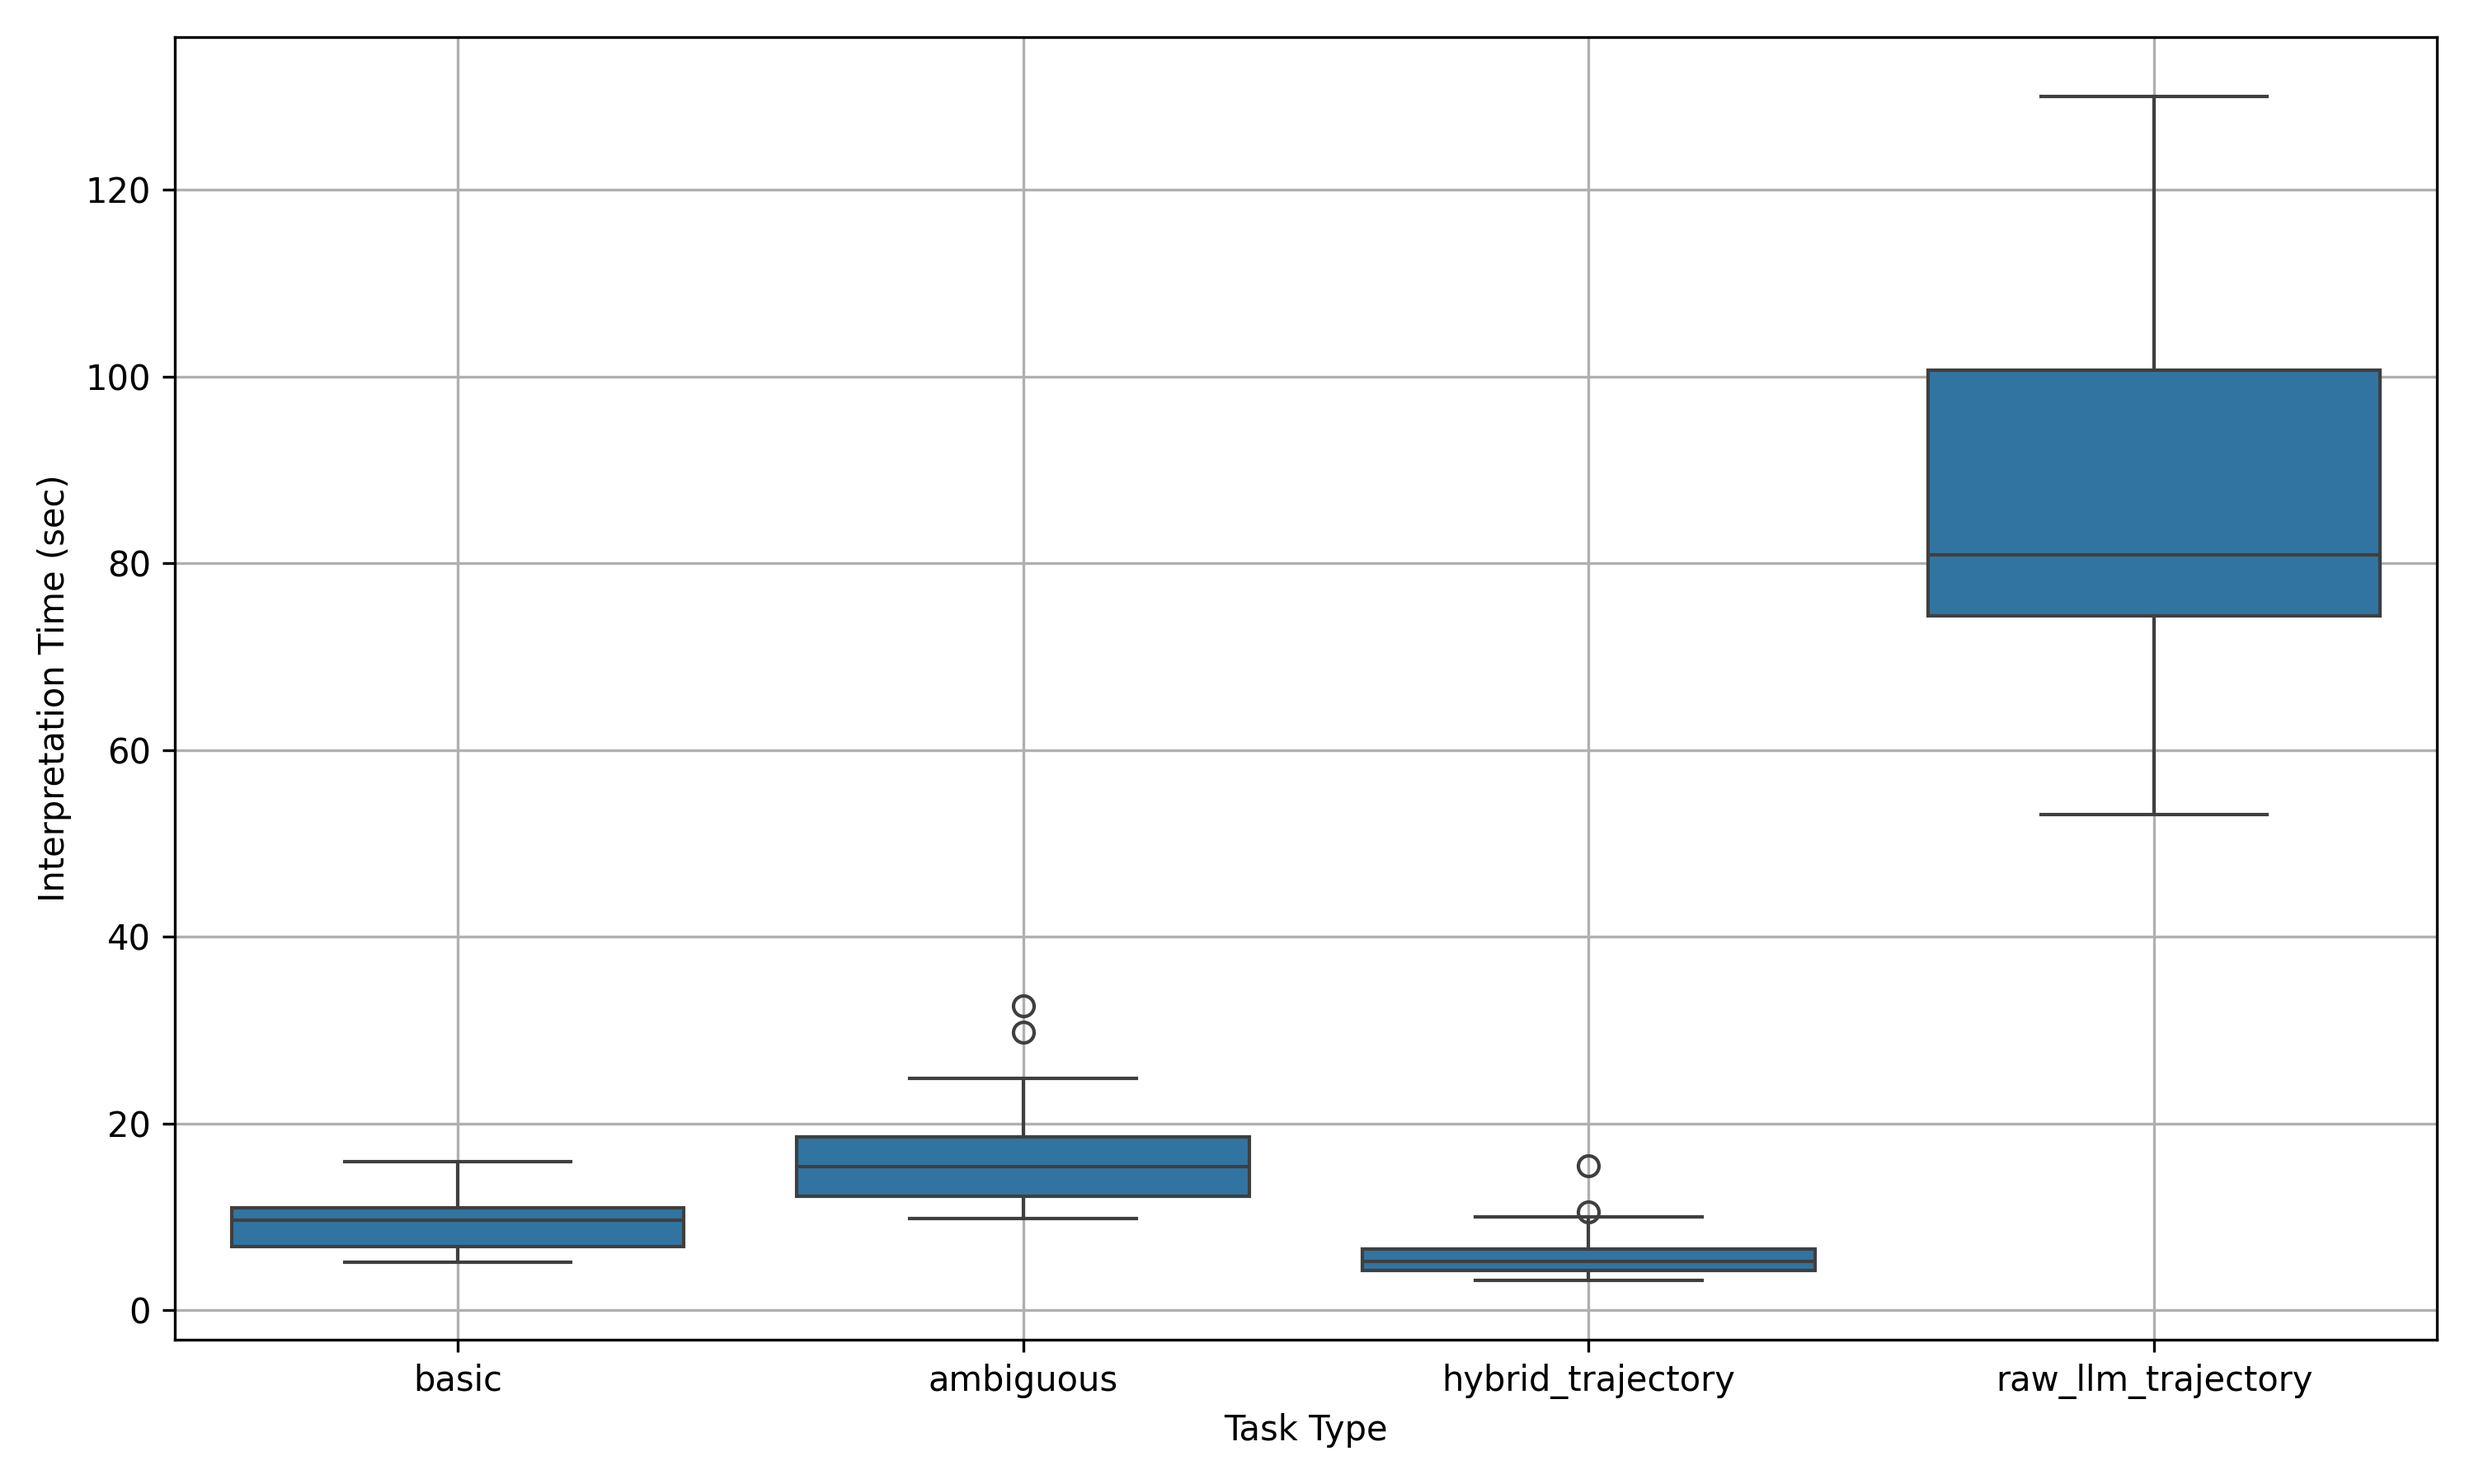
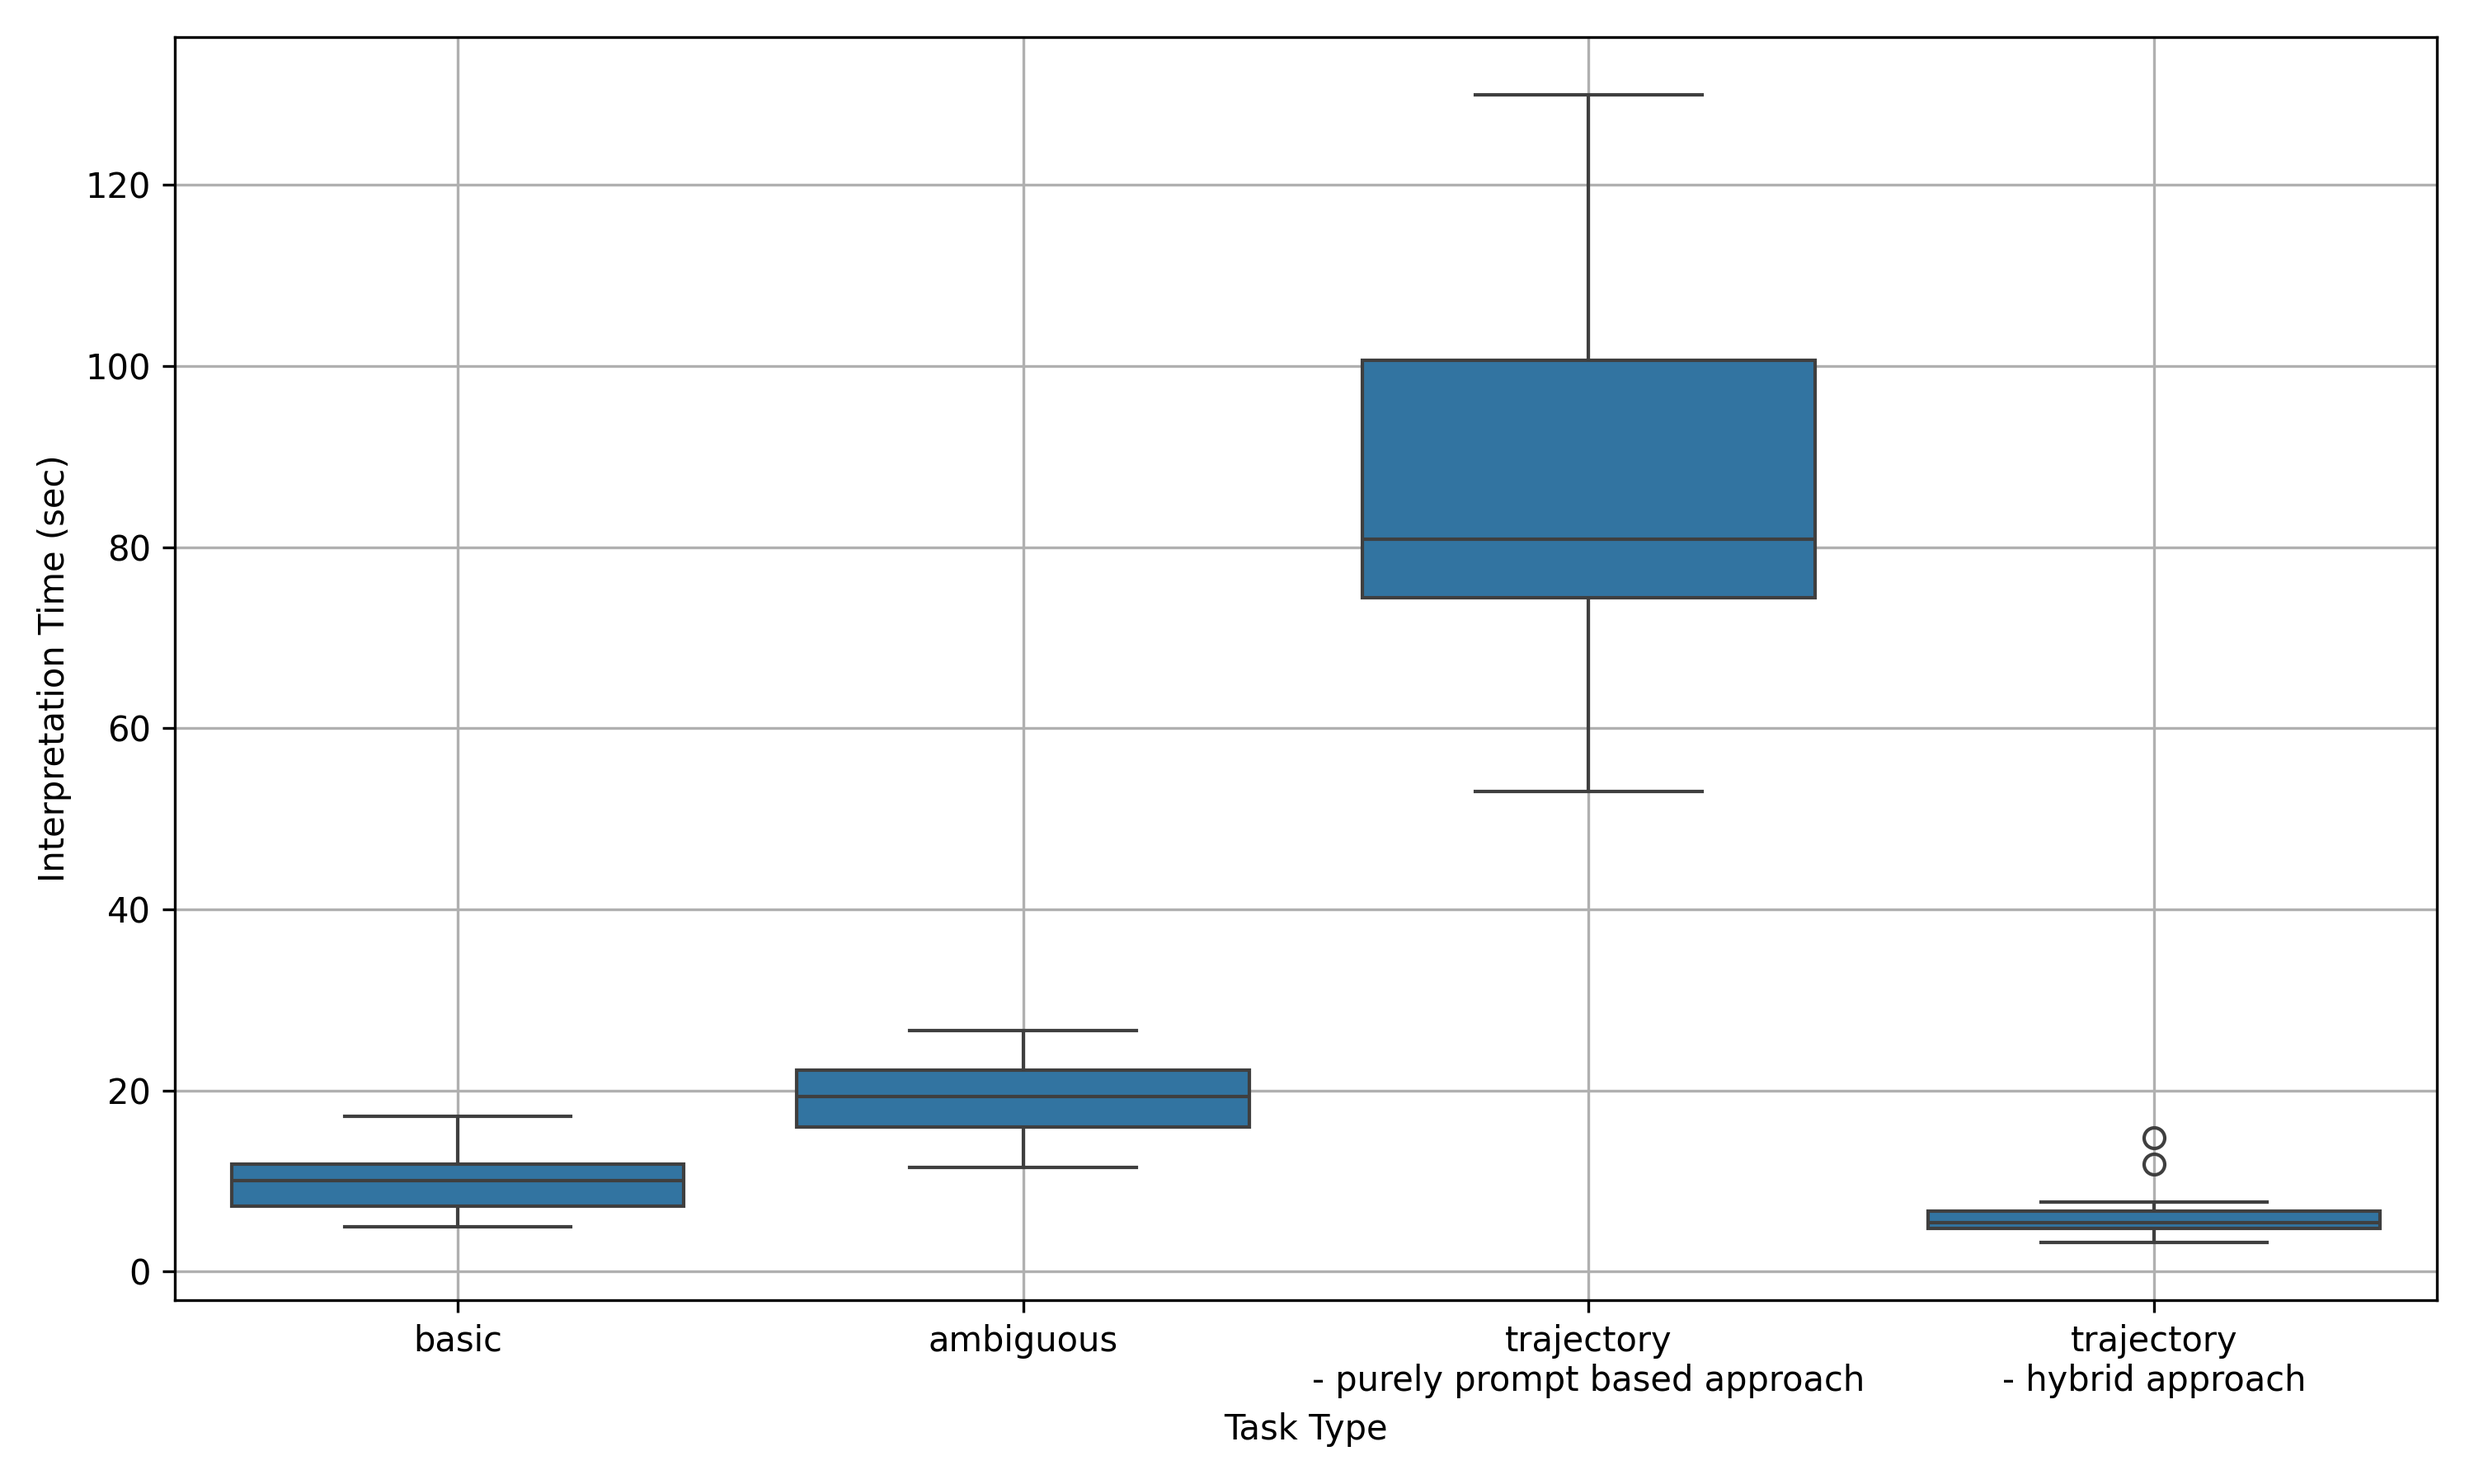
updated the column name for phase 1 plots

diff --git a/myCode/my_planning_app/logs/interpretation_time_plot.py b/myCode/my_planning_app/logs/interpretation_time_plot.py
@@ -12,15 +12,18 @@ valid_prefixes = ("ambiguous", "basic", "trajectory")
 data = []
 
 # Filter files: start with valid prefix, end with .json, and not *_evaluated.json
-allowed_scenes = {f"scene_0{i}" for i in range(1, 6)}
+allowed_scenes = [f"scene_0{i}" for i in range(1, 6)]
 json_paths = [
     p for p in experiment_dir.rglob("*.json")
     if (
         p.name.startswith(valid_prefixes)
         and not p.stem.endswith("evaluated")
-        and p.parent.parent.name in allowed_scenes
+        and p.parent.parent.parent.name in allowed_scenes
+        and "phase_1" in p.parts
     )
 ]
+
+print(f"Found {len(json_paths)} JSON files for phase 1 interpretation time analysis.")
 
 # Read and extract interpretation times
 for filepath in json_paths:
@@ -42,7 +45,7 @@ for filepath in json_paths:
 df = pd.DataFrame(data)
 
 # Rename 'trajectory' rows to 'hybrid_trajectory'
-df['task_type'] = df['task_type'].replace({'trajectory': 'hybrid_trajectory'})
+df['task_type'] = df['task_type'].replace({'trajectory': 'trajectory\n- hybrid approach'})
 
 # Generate 25 new rows for 'raw_llm_trajectory' with times ~90
 # Skewed distribution centered around 90 with some outliers
@@ -57,7 +60,7 @@ np.random.shuffle(raw_llm_times)
 
 # Create new rows
 new_rows = pd.DataFrame({
-    "task_type": ["raw_llm_trajectory"] * 25,
+    "task_type": ["trajectory\n- purely prompt based approach"] * 25,
     "interpretation_time": raw_llm_times
 })
 
@@ -74,7 +77,7 @@ plt.figure(figsize=(10, 6))
 sns.boxplot(data=df, 
             x="task_type", 
             y="interpretation_time",
-            order=["basic", "ambiguous", "hybrid_trajectory", "raw_llm_trajectory"],
+            order=["basic", "ambiguous", "trajectory\n- purely prompt based approach",  "trajectory\n- hybrid approach"],
             whis=1.5)
 # plt.title("LLM Interpretation Time by Task Type")
 plt.xlabel("Task Type")
@@ -83,7 +86,7 @@ plt.grid(True)
 plt.tight_layout()
 
 # Save plot
-img_path = experiment_dir / "plots" / "llm_interpretation_time_boxplot_by_task.png"
+img_path = experiment_dir / "plots" / "phase_1" / "llm_interpretation_time_boxplot_by_task.png"
 plt.savefig(img_path, dpi=300)
 print(f"Plot saved to {img_path}")
 plt.show()

diff --git a/myCode/my_planning_app/logs/success_rate_plot.py b/myCode/my_planning_app/logs/success_rate_plot.py
@@ -26,7 +26,7 @@ def plot_success_rate(phase: str = "phase_1"):
                 if task_type in valid_prefixes and status in ("success", "failure"):
                     # Rename 'trajectory' → 'hybrid_trajectory'
                     if task_type == "trajectory":
-                        task_type = "hybrid_trajectory"
+                        task_type = "trajectory\n- hybrid approach"
                     results.append({"task_type": task_type, "status": status})
         except Exception as e:
             print(f"Failed to process {path.name}: {e}")
@@ -43,7 +43,7 @@ def plot_success_rate(phase: str = "phase_1"):
     raw_success = 6
     raw_total = 25
     raw_failure = raw_total - raw_success
-    summary.loc["raw_llm_trajectory"] = {
+    summary.loc["trajectory\n- purely prompt based approach"] = {
         "failure": raw_failure,
         "success": raw_success,
         "total": raw_total,
@@ -51,7 +51,7 @@ def plot_success_rate(phase: str = "phase_1"):
     }
 
     # Reorder rows for plotting
-    desired_order = ["basic", "ambiguous", "raw_llm_trajectory", "hybrid_trajectory"]
+    desired_order = ["basic", "ambiguous", "trajectory\n- purely prompt based approach", "trajectory\n- hybrid approach"]
     summary = summary.loc[desired_order]
 
     # Print results
